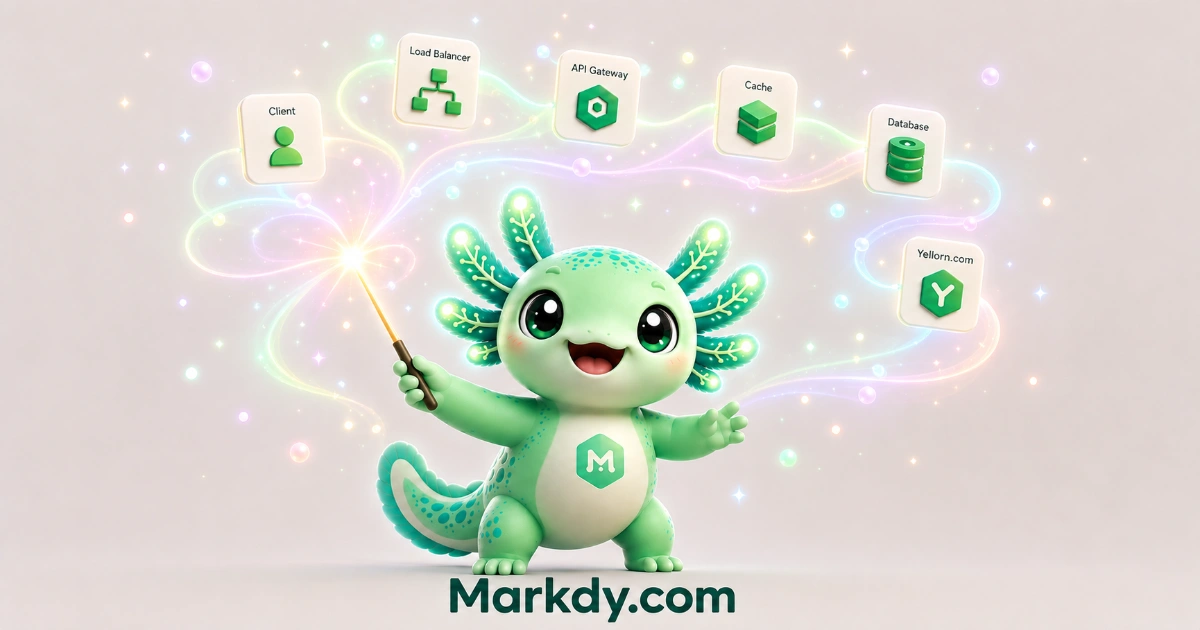
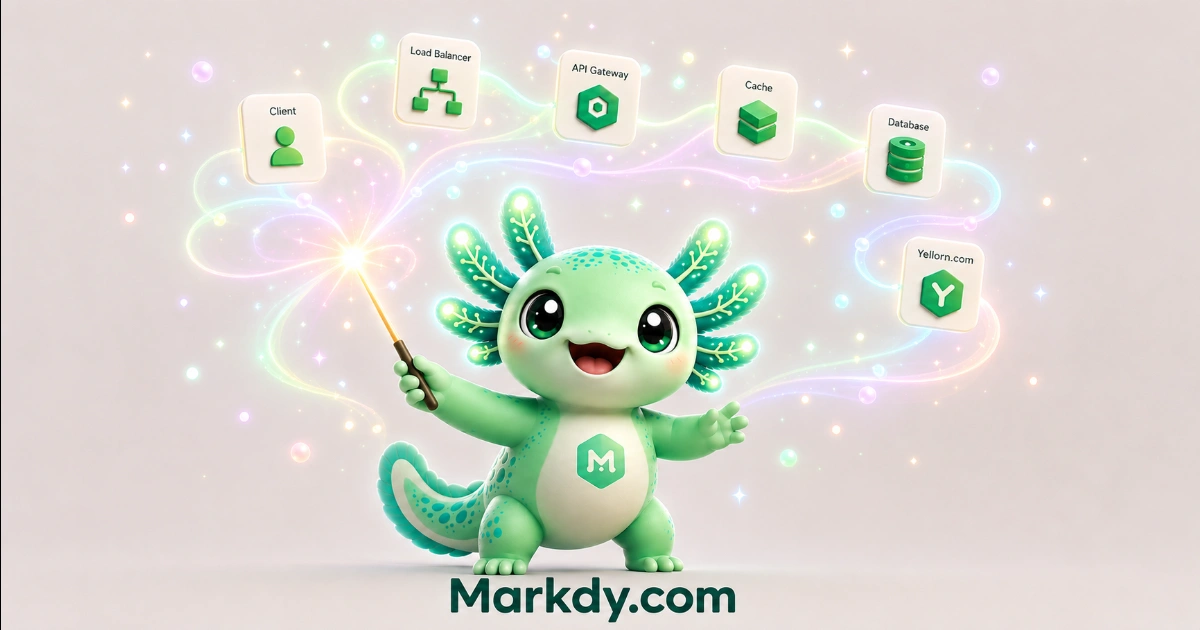
feat: optimize and integrate new mascot brand assets, 3D wordmark, and docs showcase

diff --git a/README.md b/README.md
@@ -1,12 +1,13 @@
 <p align="center">
-  <img src="docs/images/mascot/icon.svg" width="64" height="64" alt="Markdy Logo" /><br>
-  <strong>Markdy</strong><br>
-  Open-source DSL for animated architecture & system diagrams.<br>
-  Write diagram-native MarkdyScript → get browser-native animated architecture diagrams.
+  <a href="https://markdy.com">
+    <img src="docs/images/mascot/markdy-com.webp" width="380" alt="markdy.com" />
+  </a><br>
+  <strong>Open-source DSL for animated architecture &amp; system diagrams.</strong><br>
+  Write diagram-native MarkdyScript → get browser-native motion graphics that stay version-controlled, PR-friendly, and AI-native.
 </p>
 
 <p align="center">
-  <a href="https://markdy.com/playground/"><b>✨ Try the Interactive Playground</b></a>
+  <a href="https://markdy.com/playground/"><b>⚡ Try the Interactive Studio / Playground</b></a>
 </p>
 
 <p align="center">
@@ -27,7 +28,7 @@
 
 ## What is Markdy?
 
-**Markdy is a framework-agnostic, diagram-native DSL for animated architecture and system diagrams.** Declare semantic nodes, groups, beats, flows, and cues in MarkdyScript — Markdy handles layout, edge routing, timing, and browser-native rendering with the Web Animations API. No Canvas, no GSAP, no bloated dependencies.
+**Markdy is a framework-agnostic, diagram-native DSL for animated architecture and system diagrams.** Declare semantic nodes, groups, beats, flows, and cues in MarkdyScript — Markdy handles layout, edge routing, timing, and browser-native rendering with the Web Animations API. No Canvas, no GSAP, zero bloated dependencies.
 
 > Markdy is built for **animated architecture diagrams and system-design explainers**.
 > The built-in vocabulary expresses architecture, cloud, Kubernetes, CI/CD, auth, data, messaging, state-machine, and flow diagrams.
@@ -55,7 +56,7 @@ beat main "Trace the request":
 |---|---|
 | **Zero-dep parser & engines** | `@markdy/core` is pure TypeScript — AST parser, architecture linter, semantic classifier, AST diff engine, brand theme generator, and URL state codec |
 | **Web-native renderer** | Web Animations API + CSS transforms. No Canvas, no GSAP, zero dependencies |
-| **13 Specialized Layout Engines** | `architecture`, `flowchart`, `tree`, `state`, `sequence`, `constellation`, `loop`/`flywheel`, `medallion`, `quadrant`, `swimlane`, `pyramid`, `radar`, `timeline`, `gantt`, and `venn` |
+| **17 Specialized Layout Engines** | `architecture` (LR, RL, TB, BT), `flowchart`, `tree`, `state`, `sequence`, `constellation`, `loop`/`flywheel`, `medallion`, `quadrant`, `swimlane`, `pyramid`, `radar`, `timeline`, `gantt`, `venn`, `grid`, and `radial` |
 | **8 Semantic Themes** | `paper`, `editorial`, `nebula`, `midnight`, `blueprint`, `graphite`, `terminal` (CLI/TUI dark mode), and `sketchy` (editorial hand-drawn) |
 | **Universal Ingestion** | Instant transpilers for Mermaid, draw.io, Docker Compose, Kubernetes manifests, and Terraform state into animated MarkdyScript scenes (`markdy import`) |
 | **Brand Theme Generator** | Extract and generate WCAG-compliant light and dark themes from any brand hex color (`generateThemeFromBrand()`) |

diff --git a/docs/marketing/PRODUCT_HUNT_LAUNCH.md b/docs/marketing/PRODUCT_HUNT_LAUNCH.md
@@ -53,7 +53,9 @@ Would love your feedback on the MarkdyScript grammar — which node kinds, cues,
 
 *(Ready in `website/public/images/` and `docs/images/`:)*
 
-- [x] **Thumbnail (240×240px):** `website/public/icon.svg` on dark backdrop
+- [x] **Thumbnail (240×240px):** `website/public/images/3d-icon.webp` / `website/public/icon.svg`
+- [x] **Header Banner (Brand Wordmark):** `website/public/images/markdy-com.webp`
+- [x] **Mascot Launch Banner:** `website/public/images/male-markdy-ads.webp`
 - [x] **Gallery Image 1 (Hero Studio):** `website/public/images/markdy-studio-hero.webp`
 - [x] **Gallery Image 2 (Mermaid vs Markdy):** `website/public/images/markdy-vs-mermaid-comparison.webp`
 - [x] **Gallery Image 3 (Cloud Blueprint):** `website/public/images/scene-kubernetes-cluster.webp`
